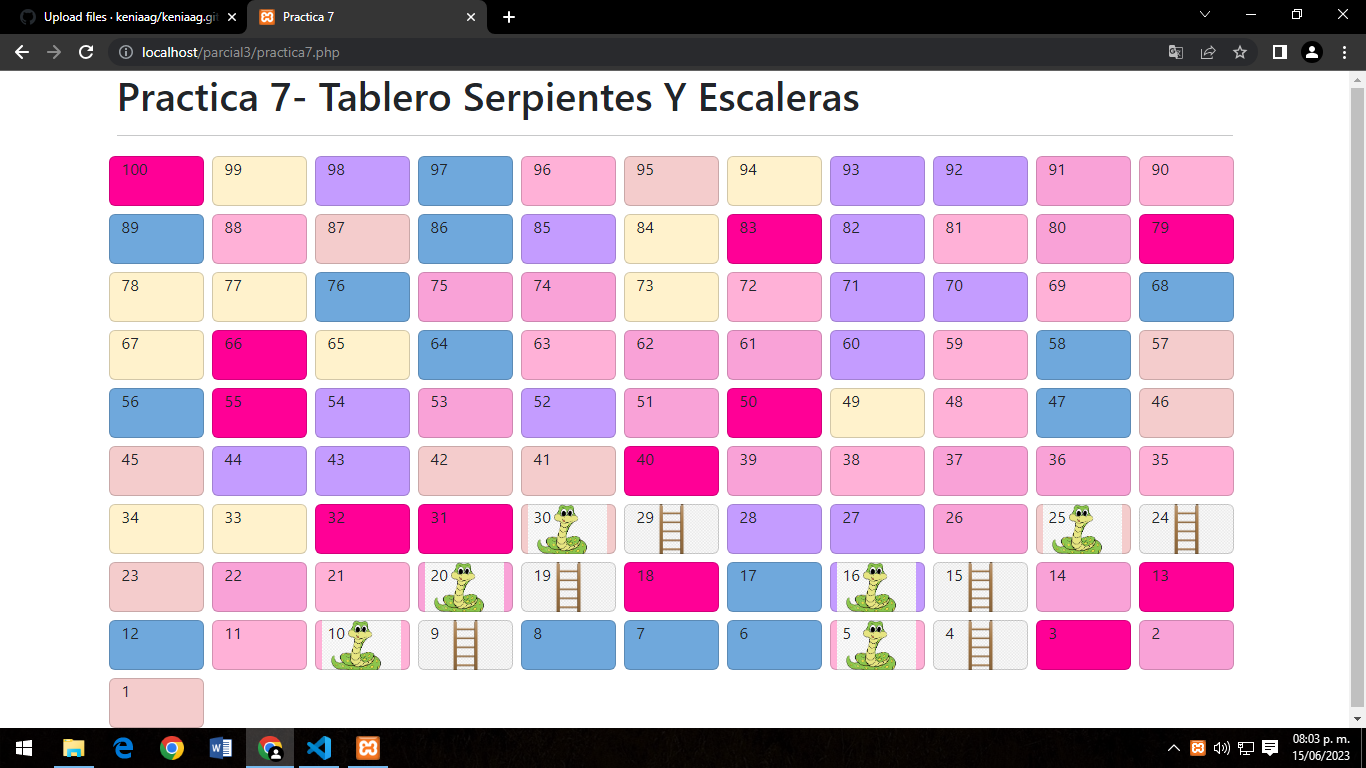
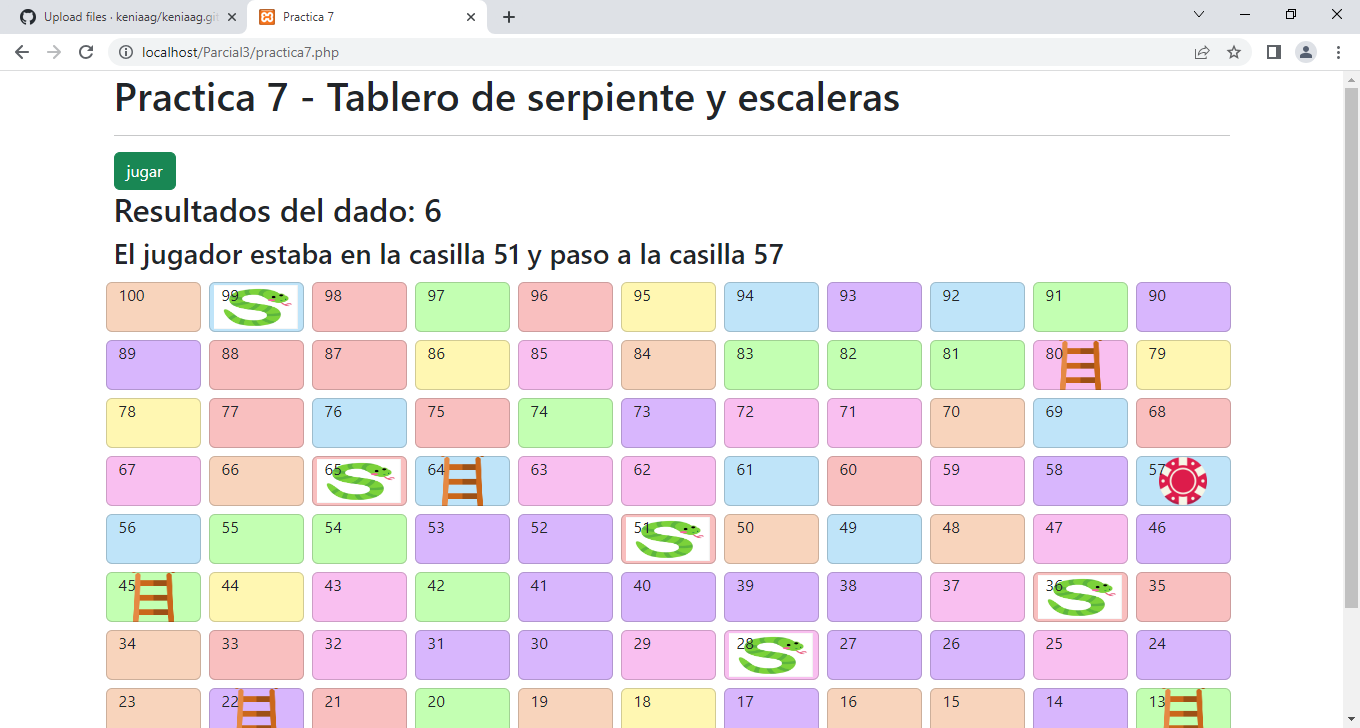
Guerrero Parra Kenia Patricia

diff --git a/Parcial3/practica7.php b/Parcial3/practica7.php
@@ -37,7 +37,7 @@
             <input type="submit" value="jugar" class="btn btn-success" >
         <div class="row">
         <?php
-        $colores = ["#6fa8dc", "#c49cff", "#f9a2d7", "#ff0096", "#f4cccc", "#ffb1d7", "#fff2cc"];
+        $colores = ["#F8D4BC", "#FFF7B2", "#C3FFB2", "#BFE4F9", "#D8B6FD", "#F9BFF0", "#F9BFBF"];
         if(isset($_POST["casilla"])){
             $dado= rand(1,12);
             echo"<h2>Resultados del dado: ".$dado."</h2>";
@@ -45,7 +45,7 @@
             echo"<h3>El jugador estaba en la casilla ".intval($_POST["casilla"])." y paso a la casilla ".$casilla."</h3>";
             //valida si gano el jugador
             if($casilla >= 100){
-                echo"<h1> El Jugador Gano</h1>";
+                echo"<h1> El Jugador Ganó</h1>";
                 $casilla = 100;
             }
 
@@ -53,46 +53,46 @@
 
 
             //valida la escalera 
-            if($casilla == 5){
-                $casilla = 16;
-                echo "<h3> El jugador cayo en una escalera <img src='escalera.png' width='50px'> y subio a la casilla 15</h3>";
+            if($casilla == 80){
+                $casilla = 91;
+                echo "<h3> El jugador cayó en una escalera <img src='escalera.png' width='50px'> y subió a la casilla 15</h3>";
             }
             if($casilla == 22){
                 $casilla = 33;
-                echo "<h3> El jugador cayo en una escalera <img src='escalera.png' width='50px'> y subio a la casilla 15</h3>";
+                echo "<h3> El jugador cayó en una escalera <img src='escaleraa.png' width='50px'> y subió a la casilla 15</h3>";
             }
-            if($casilla == 9){
-                $casilla = 20;
-                echo "<h3> El jugador cayo en una escalera <img src='escalera.png' width='50px'> y subio a la casilla 15</h3>";
+            if($casilla == 64){
+                $casilla = 75;
+                echo "<h3> El jugador cayó en una escalera <img src='escaleraa.png' width='50px'> y subió a la casilla 15</h3>";
             }
             if($casilla == 45){
                 $casilla = 56;
-                echo "<h3> El jugador cayo en una escalera <img src='escalera.png' width='50px'> y subio a la casilla 15</h3>";
+                echo "<h3> El jugador cayó en una escalera <img src='escaleraa.png' width='50px'> y subió a la casilla 15</h3>";
             }
             if($casilla == 13){
                 $casilla = 24;
-                echo "<h3> El jugador cayo en una escalera <img src='escalera.png' width='50px'> y subio a la casilla 15</h3>";
+                echo "<h3> El jugador cayó en una escalera <img src='escaleraa.png' width='50px'> y subió a la casilla 15</h3>";
             }
             //serpientes
             if($casilla == 17){
                 $casilla = 28;
-                echo "<h3> El jugador cayo en una serpiente <img src='serpiente.png' width='50px'> y bajo a la casilla 17</h3>";
+                echo "<h3> El jugador cayó en una serpiente <img src='serpiente.png' width='50px'> y bajó a la casilla 17</h3>";
             }
             if($casilla == 25){
                 $casilla = 36;
-                echo "<h3> El jugador cayo en una serpiente <img src='serpiente.png' width='50px'> y bajo a la casilla 25</h3>";
+                echo "<h3> El jugador cayó en una serpiente <img src='serpiente.png' width='50px'> y bajó a la casilla 25</h3>";
             }
             if($casilla == 40){
                 $casilla = 51;
-                echo "<h3> El jugador cayo en una serpiente <img src='serpiente.png' width='50px'> y bajo a la casilla 40</h3>";
+                echo "<h3> El jugador cayó en una serpiente <img src='serpiente.png' width='50px'> y bajó a la casilla 40</h3>";
             }
             if($casilla == 54){
                 $casilla = 65;
-                echo "<h3> El jugador cayo en una serpiente <img src='serpiente.png' width='50px'> y bajo a la casilla 54</h3>";
+                echo "<h3> El jugador cayó en una serpiente <img src='serpiente.png' width='50px'> y bajó a la casilla 54</h3>";
             }
             if($casilla == 88){
                 $casilla = 99;
-                echo "<h3> El jugador cayo en una serpiente <img src='serpiente.png' width='50px'> y bajo a la casilla 88</h3>";
+                echo "<h3> El jugador cayó en una serpiente <img src='serpiente.png' width='50px'> y bajó a la casilla 88</h3>";
             }
 
 
@@ -114,7 +114,7 @@
             for($i=100; $i>0; $i--){
                 if($casilla == $i){
                     echo "<div class='col-1 card m-1 casilla ficha' style='background-color:".$colores[rand(0,6)].";'>".$i."</div>";
-                }else if($i == 22 || $i == 13 || $i == 5 || $i == 9 || $i == 45 ){
+                }else if($i == 22 || $i == 13 || $i == 64 || $i == 80 || $i == 45 ){
                     echo "<div class='col-1 card m-1 casilla escalera' style='background-color:".$colores[rand(0,6)].";'>".$i."</div>";
                 }else if($i == 28 || $i == 51 || $i == 36 || $i == 65 || $i == 99 ){
                     echo "<div class='col-1 card m-1 casilla serpiente' style='background-color:".$colores[rand(0,6)].";'>".$i."</div>";
